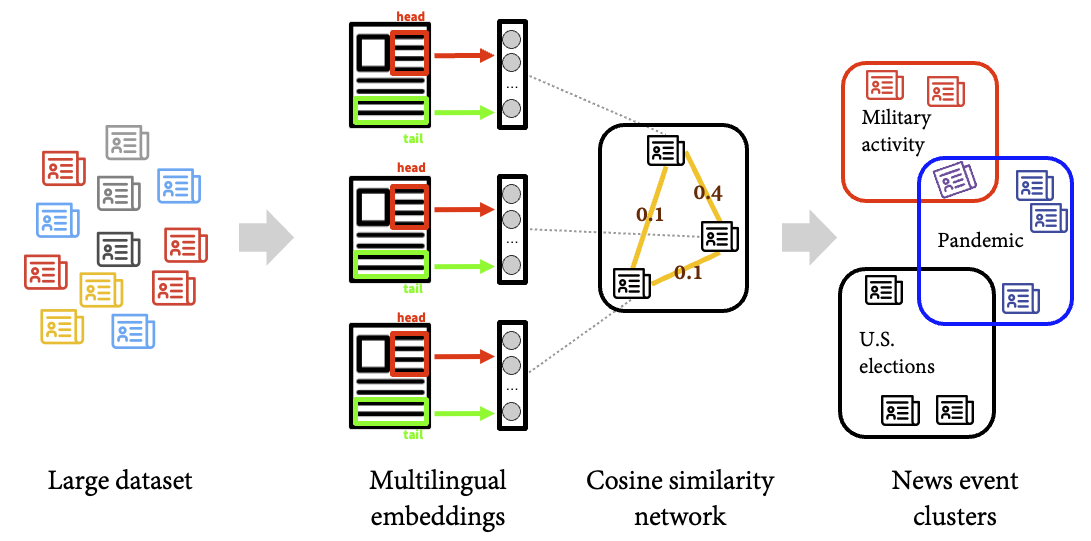
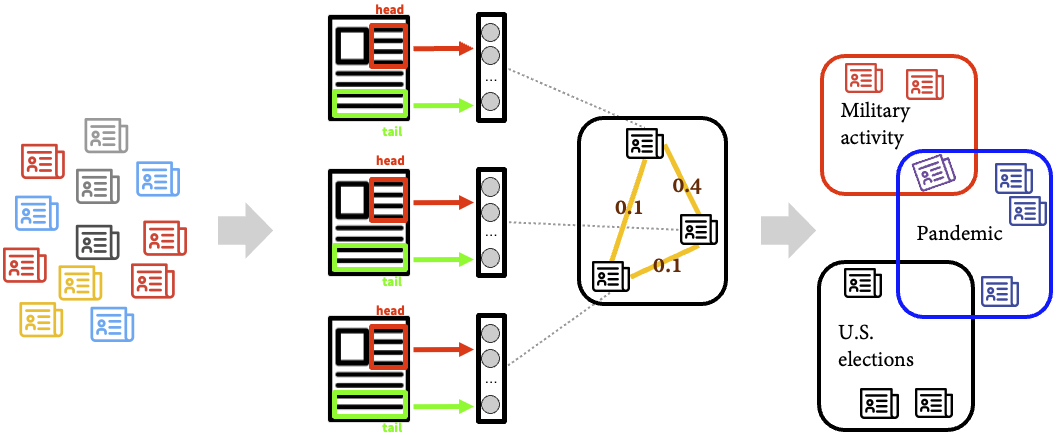
update

diff --git a/experience.html b/experience.html
@@ -17,7 +17,7 @@
             <table border="0px" class="text">
                 <tr>
                     <td width="20px">&nbsp;</td>
-                    <td><img align="left" class="top" src="img/news_synchrony_pipeline.png" width="210px" height="130px" border="0px"/></td>
+                    <td><img align="left" class="top" src="img/news_synchrony_pipeline.png" width="210px" height="100px" border="0px"/></td>
                     <td width="30px">&nbsp;</td>
                     <td><font size="4" face="Arial">Modeling multilingual international news diversity and synchrony at global scope.</font>
                     <td width="100px">&nbsp;</td>
@@ -112,21 +112,21 @@
             <table border="0px" class="text">
                 <tr>
                     <td width="20px">&nbsp;</td>
-                    <td><img align="left" class="top" src="img/body_area_network.jpg" width="210px" height="150px" border="0px"/></td>
+                    <td><img align="left" class="top" src="img/taxi_trajectory.jpg" width="210px" height="150px" border="0px"/></td>
                     <td width="30px">&nbsp;</td>
-                    <td><font size="4" face="Arial">Devised robust and efficient communication for mobile body area network. [ </font><font face="Arial"><font
-                        color="#444444"><font face="Arial"><a href="paper/Body_Area_Network.pdf" style="color:blue;>
+                    <td><font size="4" face="Arial">Devised epidemic routing for vehicular networks with taxi trajectory dataset from MSRA. [
+                        </font><font face="Arial"><font color="#444444"><font face="Arial"><a
+                        href="paper/Traffic_Network.pdf" style="color:blue;>
                     <font size="5" color="#444444"><b>Paper</b>
                         </font></a></font></font> <font size="4" face="Arial">]</font><p /></td>
                     <td width="100px">&nbsp;</td>
                 </tr>
                 <tr>
                     <td width="20px">&nbsp;</td>
-                    <td><img align="left" class="top" src="img/taxi_trajectory.jpg" width="210px" height="150px" border="0px"/></td>
+                    <td><img align="left" class="top" src="img/body_area_network.jpg" width="210px" height="150px" border="0px"/></td>
                     <td width="30px">&nbsp;</td>
-                    <td><font size="4" face="Arial">Devised epidemic routing for vehicular networks with taxi trajectory dataset from MSRA. [
-                        </font><font face="Arial"><font color="#444444"><font face="Arial"><a
-                        href="paper/Traffic_Network.pdf" style="color:blue;>
+                    <td><font size="4" face="Arial">Devised robust and efficient communication for mobile body area network. [ </font><font face="Arial"><font
+                        color="#444444"><font face="Arial"><a href="paper/Body_Area_Network.pdf" style="color:blue;>
                     <font size="5" color="#444444"><b>Paper</b>
                         </font></a></font></font> <font size="4" face="Arial">]</font><p /></td>
                     <td width="100px">&nbsp;</td>
